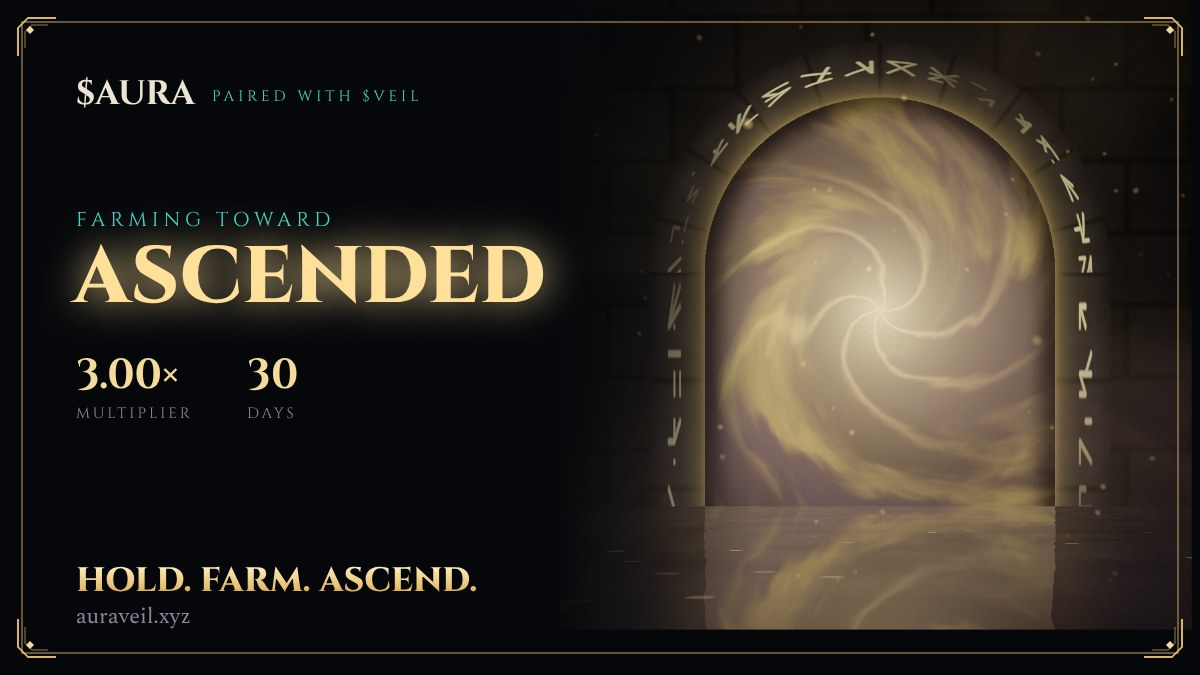
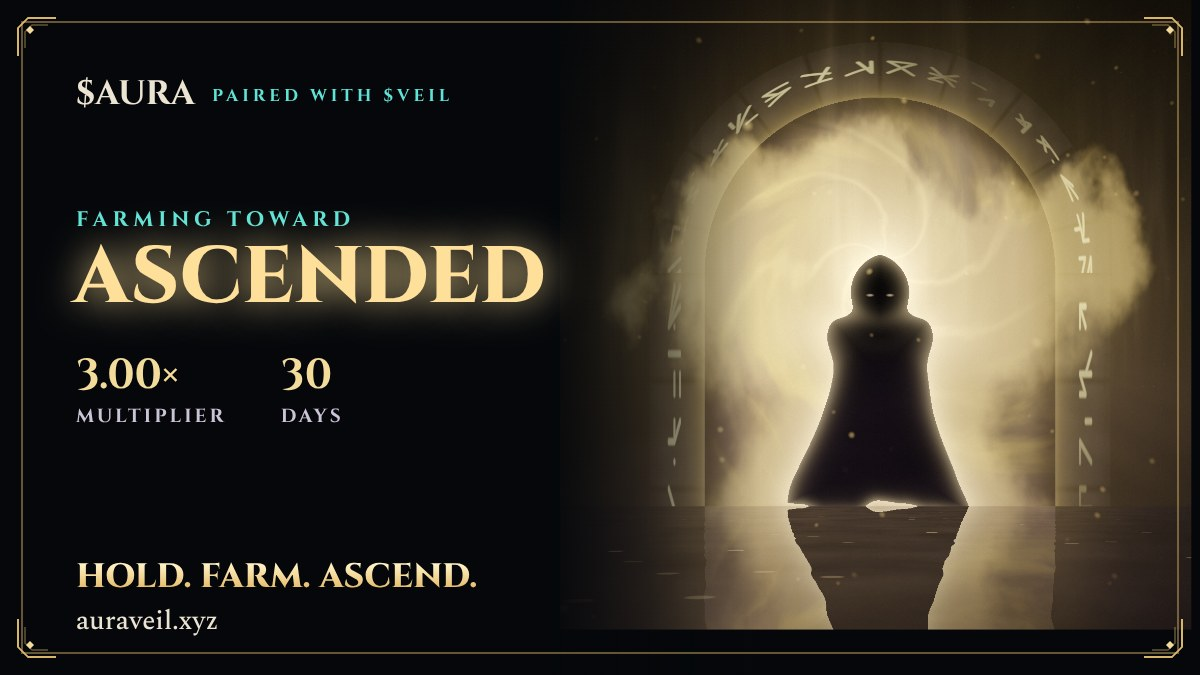
Put a cloaked figure in the arch with its aura around it; misty void instead of dungeon walls; brighter card labels
Claude-Session: https://claude.ai/code/session_018kboV7aafCug3exR45UGs3

diff --git a/src/scene.js b/src/scene.js
@@ -76,6 +76,63 @@ float rune(vec2 p, float id){
   return smoothstep(0.16, 0.04, d);
 }
 
+// ---------- The cloaked figure (2D signed distance, front view) ----------
+float smin(float a, float b, float k){ float h = clamp(0.5 + 0.5 * (b - a) / k, 0.0, 1.0); return mix(b, a, h) - k * h * (1.0 - h); }
+float sdVesica(vec2 p, float r, float d){
+  p = abs(p);
+  float b = sqrt(r * r - d * d);
+  return ((p.y - b) * d > p.x * b) ? length(p - vec2(0.0, b)) : length(p - vec2(-d, 0.0)) - r;
+}
+float sdTrapezoid(vec2 p, float r1, float r2, float he){
+  vec2 k1 = vec2(r2, he), k2 = vec2(r2 - r1, 2.0 * he);
+  p.x = abs(p.x);
+  vec2 ca = vec2(p.x - min(p.x, (p.y < 0.0) ? r1 : r2), abs(p.y) - he);
+  vec2 cb = p - k1 + k2 * clamp(dot(k1 - p, k2) / dot(k2, k2), 0.0, 1.0);
+  float s = (cb.x < 0.0 && ca.y < 0.0) ? -1.0 : 1.0;
+  return s * sqrt(min(dot(ca, ca), dot(cb, cb)));
+}
+float sdEllipse(vec2 p, vec2 r){ return (length(p / r) - 1.0) * min(r.x, r.y); }
+
+const float FIG_S = 0.64;   // figure scale
+// q: portal space. Feet stand on the floor line.
+float figureSD(vec2 q, float floorY, float t){
+  vec2 c = (q - vec2(0.0, floorY)) / FIG_S;
+  c.y -= 0.36;
+  // cloak stirred by the aura, more toward the hem
+  float lower = smoothstep(0.05, -0.36, c.y);
+  c.x += (noise(vec2(c.y * 7.0, t * 0.8)) - 0.5) * 0.025 * lower;
+  vec2 ch = c;
+  ch.y += (noise(vec2(c.x * 16.0, t * 0.5)) - 0.5) * 0.03 * smoothstep(-0.26, -0.36, c.y);
+  float hood = sdVesica(c - vec2(0.0, 0.155), 0.094, 0.024);
+  float shoulders = sdEllipse(c - vec2(0.0, 0.05), vec2(0.118, 0.058));
+  // the cloak flares in a curve toward the hem rather than a straight cone
+  float flare = 1.0 + 0.45 * pow(smoothstep(0.02, -0.36, ch.y), 1.8);
+  ch.x /= flare;
+  float cloak = sdTrapezoid(ch - vec2(0.0, -0.145), 0.15, 0.1, 0.215) * flare;
+  float d = smin(smin(hood, shoulders, 0.035), cloak, 0.05);
+  return d * FIG_S;
+}
+
+// Aura light around the figure: tight inner glow, flame tongues flowing upward, wide bloom.
+vec3 auraAt(vec2 q, float fd, float t){
+  float up = q.y;
+  float flow = fbm(vec2(q.x * 9.0, up * 6.0 - t * 1.4));
+  float flow2 = fbm(vec2(q.x * 18.0 + 3.0, up * 11.0 - t * 2.3));
+  float reach = 0.045 + uIntensity * 0.09;
+  // flames lean upward: stretch distance below the figure's middle, shrink above
+  float fdF = fd - (flow * 0.7 + flow2 * 0.3) * reach * (1.0 + smoothstep(-0.2, 0.15, up) * 1.4);
+  float flames = smoothstep(reach * 0.5, 0.0, fdF);
+  vec3 col = uColor * flames * (0.55 + uIntensity * 0.9);
+  // hot inner edge, toward white-gold
+  col += mix(uColor, vec3(1.0, 0.95, 0.85), 0.55) * exp(-max(fd, 0.0) * (70.0 - uIntensity * 25.0)) * (0.7 + uIntensity * 1.1);
+  // wisps streaming upward off the figure
+  float wisp = pow(fbm(vec2(q.x * 26.0, up * 2.6 - t * 1.9)), 3.0) * 2.4;
+  col += mix(uColor, vec3(1.0, 0.95, 0.85), 0.25) * wisp * exp(-max(fd, 0.0) * (16.0 - uIntensity * 7.0)) * smoothstep(-0.25, 0.1, up) * (0.3 + uIntensity * 0.9);
+  // wide soft bloom so the aura reads as light around a person
+  col += uColor * exp(-max(fd, 0.0) * (9.0 - uIntensity * 4.0)) * (0.18 + uIntensity * 0.4);
+  return col;
+}
+
 void main(){
   vec2 frag = gl_FragCoord.xy;
   vec2 p = (frag - 0.5 * uRes) / uRes.y;
@@ -98,25 +155,26 @@ void main(){
 
   vec3 col;
 
-  // ---------- Back wall ----------
-  vec2 bw = pw * vec2(5.0, 9.0);
-  bw.x += step(1.0, mod(floor(bw.y), 2.0)) * 0.5;
-  vec2 cell = fract(bw), cid = floor(bw);
-  float mortar = smoothstep(0.0, 0.05, cell.x) * smoothstep(1.0, 0.95, cell.x) * smoothstep(0.0, 0.08, cell.y) * smoothstep(1.0, 0.92, cell.y);
-  float stone = 0.55 + 0.45 * fbm(pw * 14.0 + cid * 3.1);
-  stone *= 0.75 + 0.25 * hash(cid);
-  vec3 wall = vec3(0.045, 0.05, 0.07) * stone * (0.35 + 0.65 * mortar);
-  col = wall * (0.35 + portalLight * 2.2);
-  float pillarX = abs(pw.x - uPortal.x) - 0.78 * uScale;
-  float runeCol = smoothstep(0.03, 0.0, abs(pillarX));
-  vec2 rc = vec2(pillarX * 22.0 + 0.5, pw.y * 11.0);
-  float wallRunes = runeCol * rune(fract(rc), floor(rc.y)) * step(-0.25, pw.y) * step(pw.y, 0.35) * step(uPortal.x - 0.01, pw.x);
-  col += TEAL * wallRunes * (0.5 + 0.3 * sin(t * 1.3 + pw.y * 6.0));
+  // ---------- Background: a dark, misty void instead of a dungeon wall ----------
+  float neb = fbm(pw * 2.6 + vec2(t * 0.015, -t * 0.01));
+  float neb2 = fbm(pw * 5.5 - vec2(t * 0.02, 0.0) + neb);
+  col = vec3(0.012, 0.014, 0.022);
+  col += VIOLET * 0.10 * smoothstep(0.35, 0.9, neb);
+  col += TEAL * 0.035 * smoothstep(0.55, 0.95, neb2);
+  col *= 0.45 + portalLight * 1.6;
+  // faint distant motes
+  vec2 sg = pw * 60.0;
+  vec2 si = floor(sg);
+  float sh = hash(si);
+  if (sh > 0.985) {
+    float tw = 0.5 + 0.5 * sin(t * (0.6 + sh) + sh * 50.0);
+    col += vec3(0.75, 0.8, 0.95) * smoothstep(0.12, 0.0, length(fract(sg) - 0.5)) * tw * 0.35;
+  }
 
   // ---------- Portal opening ----------
   if (dOpen < 0.0) {
-    vec2 vq = (q - vec2(0.0, -0.06)) / 0.55;
-    col = vortex(vq, t);
+    vec2 vq = (q - vec2(0.0, 0.02)) / 0.55;
+    col = vortex(vq, t) * 0.85;
     col *= smoothstep(0.0, -0.05, dOpen) * 0.7 + 0.3;
   }
 
@@ -147,13 +205,13 @@ void main(){
     float fy = floorY - q.y;
     float z = 0.18 / (fy + 0.015);
     vec2 fuv = vec2(q.x * z, z);
-    vec2 tile = fract(fuv * vec2(1.6, 0.9));
-    float grout = smoothstep(0.0, 0.04, tile.x) * smoothstep(0.0, 0.06, tile.y);
     float fstone = 0.5 + 0.5 * fbm(fuv * 3.0);
-    vec3 fl = vec3(0.05, 0.052, 0.068) * fstone * (0.5 + 0.5 * grout);
+    vec3 fl = vec3(0.03, 0.032, 0.045) * fstone;
     vec2 rq = vec2(q.x + (noise(fuv * 6.0 + t * 0.6) - 0.5) * 0.02 * fy * 4.0, floorY + fy);
     float rd = portalSD(rq, w, h + 0.5);
-    vec3 refl = rd < 0.0 ? vortex((rq - vec2(0.0, -0.06)) / 0.55, t) : vec3(0.0);
+    vec3 refl = rd < 0.0 ? vortex((rq - vec2(0.0, 0.02)) / 0.55, t) * 0.85 : vec3(0.0);
+    float rfd = figureSD(rq, floorY, t);
+    if (rfd < 0.0) refl = vec3(0.0); else refl += auraAt(rq, rfd, t) * 0.8;
     float fres = exp(-fy * 3.2);
     fl += refl * 0.75 * fres;
     fl += portalLight * 0.14 * fstone;
@@ -167,6 +225,23 @@ void main(){
       fl += GOLD * coin * (0.5 + 1.0 * tw) * exp(-abs(q.x) * 1.4) * smoothstep(0.0, 0.05, fy);
     }
     col = fl * smoothstep(1.2, 0.0, fy);
+  }
+
+  // ---------- The figure and its aura ----------
+  float fd = figureSD(q, floorY, t);
+  if (q.y >= floorY) {
+    if (fd < 0.0) {
+      // near-black cloak, back-lit by its own aura along the edge
+      float rim = exp(fd * (150.0 - uIntensity * 50.0));
+      col = vec3(0.006, 0.006, 0.012) + mix(uColor, vec3(1.0, 0.95, 0.85), 0.4) * rim * (0.35 + uIntensity * 0.7);
+      // two faint eyes in the hood
+      vec2 c = (q - vec2(0.0, floorY)) / FIG_S - vec2(0.0, 0.36);
+      vec2 e = vec2(abs(c.x) - 0.024, c.y - 0.148);
+      float eye = smoothstep(0.012, 0.0, length(e * vec2(1.0, 2.6)));
+      col += mix(uColor, vec3(1.0), 0.35) * eye * (0.25 + uIntensity * 1.1);
+    } else {
+      col += auraAt(q, fd, t);
+    }
   }
 
   // ---------- Mist ----------
@@ -195,10 +270,11 @@ void main(){
   col += emb * emberMask * (0.5 + uIntensity * 0.9);
 
   // ---------- God rays ----------
-  float ang = atan(q.y, q.x);
+  vec2 rq0 = q - vec2(0.0, floorY + 0.5 * FIG_S);
+  float ang = atan(rq0.y, rq0.x);
   float rays = fbm(vec2(ang * 3.0, t * 0.1));
-  float rl = length(q);
-  col += uColor * pow(rays, 3.0) * 0.35 * exp(-rl * 1.6) * smoothstep(0.2, 0.5, rl) * (0.3 + uIntensity);
+  float rl = length(rq0);
+  col += uColor * pow(rays, 3.0) * 0.3 * exp(-rl * 1.8) * smoothstep(0.12, 0.4, rl) * (0.3 + uIntensity) * step(0.0, fd);
 
   // ---------- Grade ----------
   col *= uDim;
@@ -244,7 +320,7 @@ export function createScene(canvas) {
   });
   scene.add(new THREE.Mesh(new THREE.PlaneGeometry(2, 2), mat));
 
-  function quality() { return isSmall() ? 0.6 : Math.min(window.devicePixelRatio, 1.5) * 0.7; }
+  function quality() { return isSmall() ? 0.75 : Math.min(window.devicePixelRatio, 1.5) * 0.85; }
 
   function layout() {
     const w = window.innerWidth, h = window.innerHeight;

diff --git a/src/style.css b/src/style.css
@@ -10,7 +10,7 @@
   --teal: #45d6c8;
   --bone: #ece4d2;
   --text: #c9c1b0;
-  --mist: #8d8899;
+  --mist: #a7a1b4;
   --shatter: #ff6b7d;
   --tier: #e9a24a; /* updated live from JS */
 
@@ -183,7 +183,7 @@ h1 span { display: block; }
 }
 .strip > div { padding: 18px 22px; }
 .strip > div + div { border-left: 1px solid rgba(217, 181, 106, 0.16); }
-.strip dt { font-family: var(--display); font-size: 0.7rem; letter-spacing: 0.16em; text-transform: uppercase; color: var(--mist); }
+.strip dt { font-family: var(--display); font-weight: 700; font-size: 0.74rem; letter-spacing: 0.16em; text-transform: uppercase; color: var(--mist); }
 .strip dd { margin: 4px 0 2px; font-family: var(--display); font-weight: 700; font-size: 1.5rem; color: var(--gold-hi); line-height: 1.2; }
 .strip p { margin: 0; font-size: var(--step--1); color: var(--mist); }
 .strip-ca dd code { font-family: var(--body); font-size: 0.95rem; color: var(--bone); word-break: break-all; font-weight: 500; }
@@ -241,7 +241,7 @@ h3 { font-family: var(--display); font-weight: 700; font-size: 1.1rem; letter-sp
 .sim-blurb { margin: 12px 0 26px; min-height: 1.6em; color: var(--text); }
 .sim-stats { display: flex; gap: 44px; margin: 0 0 24px; flex-wrap: wrap; }
 .sim-stats div { display: flex; flex-direction: column-reverse; }
-.sim-stats dt { font-family: var(--display); font-size: 0.7rem; letter-spacing: 0.16em; text-transform: uppercase; color: var(--mist); }
+.sim-stats dt { font-family: var(--display); font-weight: 700; font-size: 0.74rem; letter-spacing: 0.16em; text-transform: uppercase; color: var(--mist); }
 .sim-stats dd { margin: 0; font-family: var(--display); font-weight: 700; font-size: 1.6rem; color: var(--gold-hi); font-variant-numeric: tabular-nums; }
 
 .sim-slider { display: block; }
@@ -302,7 +302,7 @@ input[type='range']::-moz-range-thumb {
 .harvest-stats { display: grid; grid-template-columns: repeat(3, minmax(0, 1fr)); max-width: var(--col); margin: 0; }
 .stat { padding: 24px 24px; display: flex; flex-direction: column-reverse; }
 .stat + .stat { border-left: 1px solid rgba(217, 181, 106, 0.16); }
-.stat dt { font-family: var(--display); font-size: 0.7rem; letter-spacing: 0.16em; text-transform: uppercase; color: var(--mist); margin-top: 6px; }
+.stat dt { font-family: var(--display); font-weight: 700; font-size: 0.74rem; letter-spacing: 0.16em; text-transform: uppercase; color: var(--mist); margin-top: 6px; }
 .stat dd { margin: 0; font-family: var(--display); font-weight: 700; font-size: clamp(1.4rem, 1.1rem + 1.4vw, 2.2rem); color: var(--gold-hi); font-variant-numeric: tabular-nums; line-height: 1.15; }
 @media (max-width: 640px) {
   .harvest-stats { grid-template-columns: 1fr; }

diff --git a/src/card.js b/src/card.js
@@ -1,7 +1,7 @@
 import { CONFIG, TIERS } from './config.js';
 
 const W = 1200, H = 675; // large-image size for X and Telegram (16:9)
-const GOLD_HI = '#f3dc9b', GOLD = '#d9b56a', BONE = '#ece4d2', MIST = '#8d8899', TEAL = '#45d6c8';
+const GOLD_HI = '#f3dc9b', GOLD = '#d9b56a', BONE = '#ece4d2', LABEL = '#cbc3d6', TEAL = '#5fe3d6';
 
 async function fontsReady() {
   try {
@@ -75,13 +75,13 @@ function buildOverlay(data) {
   g.font = '700 34px "Cinzel", serif';
   g.fillText('$AURA', left, 104);
   g.fillStyle = TEAL;
-  g.font = '400 15px "Cinzel", serif';
+  g.font = '700 17px "Cinzel", serif';
   g.letterSpacing = '4px';
   g.fillText('PAIRED WITH $VEIL', left + 136, 101);
 
   // Line above the tier
   g.fillStyle = TEAL;
-  g.font = '400 20px "Cinzel", serif';
+  g.font = '700 21px "Cinzel", serif';
   g.letterSpacing = '5px';
   const who = data.wallet ? `${data.wallet.slice(0, 4)}…${data.wallet.slice(-4)}` : null;
   let leadX = left;
@@ -91,7 +91,7 @@ function buildOverlay(data) {
     g.font = '500 24px "Spectral", serif';
     g.fillText(who, left, 226);
     leadX = left + g.measureText(who).width + 14;
-    g.font = '400 20px "Cinzel", serif';
+    g.font = '700 21px "Cinzel", serif';
     g.letterSpacing = '5px';
   }
   const lead = real ? (who ? 'has reached' : 'My aura has reached') : 'Farming toward';
@@ -120,10 +120,10 @@ function buildOverlay(data) {
     g.font = '700 42px "Cinzel", serif';
     g.fillText(num, x, statsY);
     const nw = g.measureText(num).width;
-    g.fillStyle = MIST;
-    g.font = '400 15px "Cinzel", serif';
+    g.fillStyle = LABEL;
+    g.font = '700 19px "Cinzel", serif';
     g.letterSpacing = '3px';
-    g.fillText(label.toUpperCase(), x, statsY + 30);
+    g.fillText(label.toUpperCase(), x, statsY + 34);
     const lw = g.measureText(label.toUpperCase()).width;
     g.letterSpacing = '0px';
     x += Math.max(nw, lw) + 54;
@@ -134,10 +134,10 @@ function buildOverlay(data) {
   grad.addColorStop(0, '#fff1c4'); grad.addColorStop(0.6, '#e6bd6b'); grad.addColorStop(1, '#a8772c');
   g.fillStyle = grad;
   g.font = '800 34px "Cinzel", serif';
-  g.fillText('HOLD. FARM. ASCEND.', left, H - 84);
-  g.fillStyle = MIST;
-  g.font = '400 22px "Spectral", serif';
-  g.fillText(CONFIG.siteHost, left, H - 52);
+  g.fillText('HOLD. FARM. ASCEND.', left, H - 88);
+  g.fillStyle = BONE;
+  g.font = '500 27px "Spectral", serif';
+  g.fillText(CONFIG.siteHost, left, H - 46);
 
   return o;
 }
